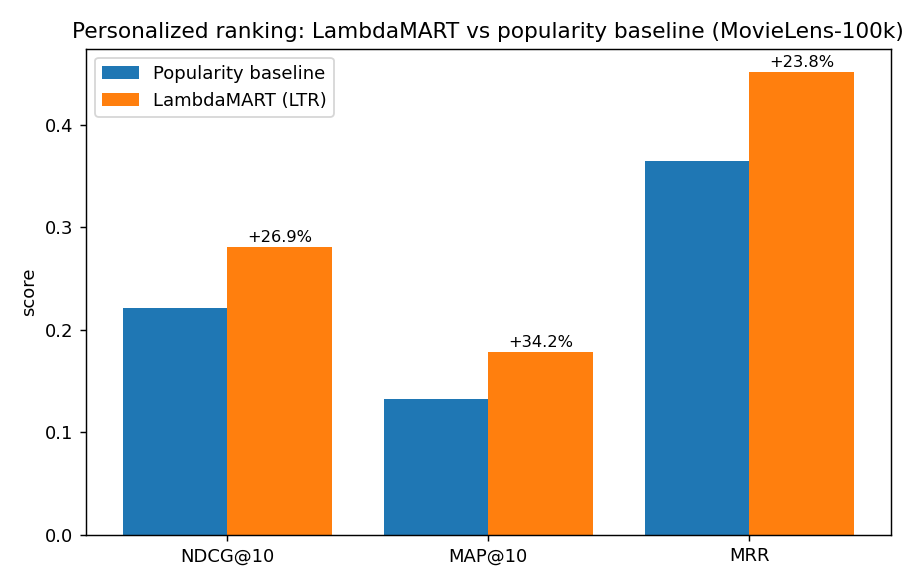
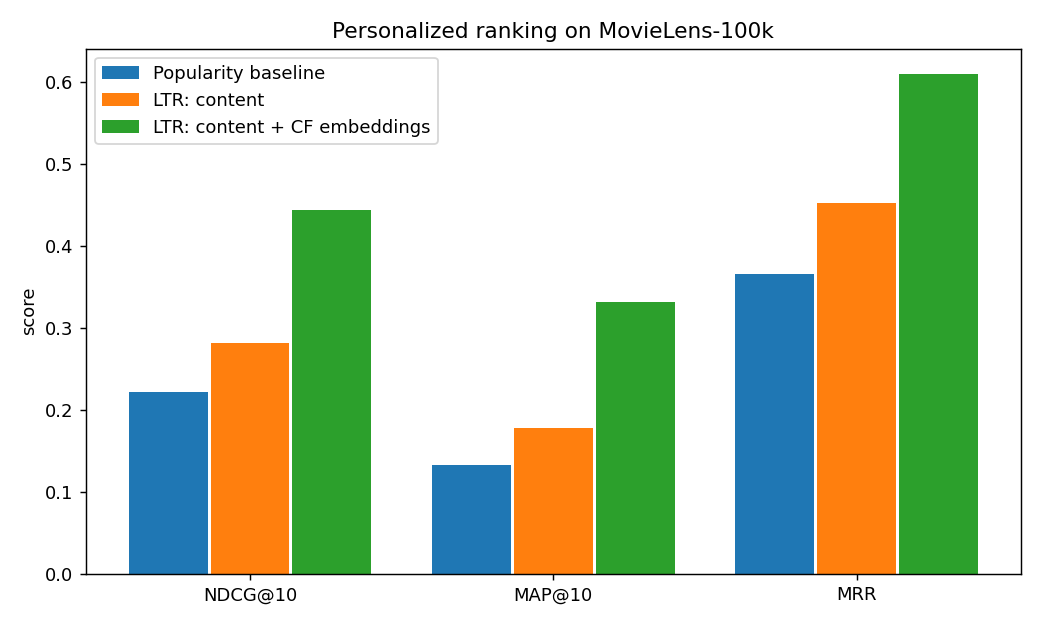
v2: add collaborative-filtering embeddings (matrix factorization) as ranking feature — nearly 2x NDCG over content-only

diff --git a/src/pipeline.py b/src/pipeline.py
@@ -33,7 +33,13 @@ import pandas as pd
 import matplotlib
 matplotlib.use("Agg")
 import matplotlib.pyplot as plt
+from scipy.sparse import csr_matrix
+from scipy.sparse.linalg import svds
 from xgboost import XGBRanker
+
+MF_DIM = 20   # latent dimensions for the collaborative-filtering embeddings
+CONTENT_FEATS = ["item_pop_log", "item_mean", "user_activity", "user_mean", "genre_match"]
+FULL_FEATS = CONTENT_FEATS + ["mf_score"]   # content + collaborative-filtering
 
 ROOT = Path(__file__).resolve().parents[1]
 DATA = ROOT / "data" / "ml-100k"
@@ -72,6 +78,30 @@ def temporal_split(ratings, test_frac=0.2, min_inter=10):
 
 
 # ------------------------- feature engineering ------------------------------
+def compute_mf(train, k=MF_DIM):
+    """Matrix factorization on the TRAIN positives -> user & item embeddings in
+    one shared latent space (collaborative filtering).
+
+    Build the sparse user x item matrix of positives (rating >= 4), factor it
+    with truncated SVD, and read off a k-dim vector for each user and each item.
+    The dot product of a user vector and an item vector is the 'collaborative
+    affinity' — learned purely from co-rating behavior, no genre labels.
+    """
+    pos = train[train["rating"] >= 4]
+    u_ids = sorted(pos["user"].unique())
+    i_ids = sorted(pos["item"].unique())
+    uidx = {u: i for i, u in enumerate(u_ids)}
+    iidx = {it: i for i, it in enumerate(i_ids)}
+    rows = pos["user"].map(uidx).to_numpy()
+    cols = pos["item"].map(iidx).to_numpy()
+    R = csr_matrix((np.ones(len(pos)), (rows, cols)), shape=(len(u_ids), len(i_ids)))
+    k = min(k, min(R.shape) - 1)
+    U, s, Vt = svds(R, k=k)           # R ~= U @ diag(s) @ Vt
+    return {"uidx": uidx, "iidx": iidx,
+            "user_emb": U * s,        # (n_users, k)
+            "item_emb": Vt.T}         # (n_items, k)
+
+
 def build_feature_tables(train, genres):
     """Everything here is derived from TRAIN ONLY (leakage guard)."""
     g_mean = train["rating"].mean()
@@ -93,6 +123,7 @@ def build_feature_tables(train, genres):
         "user_stats": user_stats,
         "user_genre": user_genre,
         "genres": genres,
+        "mf": compute_mf(train),       # collaborative-filtering embeddings
     }
 
 
@@ -111,8 +142,19 @@ def featurize(pairs, ft):
     ig = ft["genres"].reindex(df["item"].values).fillna(0.0).to_numpy()
     df["genre_match"] = (ug * ig).sum(axis=1)
 
-    feats = ["item_pop_log", "item_mean", "user_activity", "user_mean", "genre_match"]
-    return df[feats], feats
+    # collaborative-filtering affinity = dot(user_emb, item_emb); 0 for cold
+    # users/items with no learned embedding (that's when genre_match carries it).
+    mf = ft["mf"]
+    uix = df["user"].map(mf["uidx"])
+    iix = df["item"].map(mf["iidx"])
+    score = np.zeros(len(df))
+    mask = uix.notna().to_numpy() & iix.notna().to_numpy()
+    if mask.any():
+        u = uix[mask].astype(int).to_numpy()
+        i = iix[mask].astype(int).to_numpy()
+        score[mask] = (mf["user_emb"][u] * mf["item_emb"][i]).sum(axis=1)
+    df["mf_score"] = score
+    return df
 
 
 # ------------------------- candidate construction ---------------------------
@@ -223,23 +265,29 @@ def main():
 
     ft = build_feature_tables(train, genres)
     pop_w = popularity_weights(train, all_items)   # for hard-negative sampling
-
-    # ---- train LambdaMART ranker ----
     tr = build_training_frame(train, all_items, pop_w)
-    X, feat_names = featurize(tr[["user", "item"]], ft)
     groups = tr.groupby("user").size().to_numpy()
-    ranker = XGBRanker(objective="rank:ndcg", n_estimators=300, learning_rate=0.1,
-                       max_depth=6, subsample=0.8, colsample_bytree=0.8,
-                       random_state=42)
-    ranker.fit(X.to_numpy(), tr["rel"].to_numpy(), group=groups)
+    tr_feats = featurize(tr[["user", "item"]], ft)
 
-    # ---- evaluate (popularity-matched hard negatives) ----
+    def train_ranker(feature_cols):
+        r = XGBRanker(objective="rank:ndcg", n_estimators=300, learning_rate=0.1,
+                      max_depth=6, subsample=0.8, colsample_bytree=0.8,
+                      random_state=42)
+        r.fit(tr_feats[feature_cols].to_numpy(), tr["rel"].to_numpy(), group=groups)
+        return r
+
+    # v1 = content + popularity features; v2 = v1 + collaborative-filtering embedding
+    ranker_v1 = train_ranker(CONTENT_FEATS)
+    ranker_v2 = train_ranker(FULL_FEATS)
+
     eval_lists = build_eval_lists(test, train, all_items, pop_w)
     print(f"eval users with >=1 relevant test item: {len(eval_lists)}")
 
-    def model_score(user, items):
-        X, _ = featurize(pd.DataFrame({"user": user, "item": items}), ft)
-        return ranker.predict(X.to_numpy())
+    def make_scorer(ranker, cols):
+        def score(user, items):
+            X = featurize(pd.DataFrame({"user": user, "item": items}), ft)
+            return ranker.predict(X[cols].to_numpy())
+        return score
 
     pop = ft["item_stats"]["item_pop"]
 
@@ -247,29 +295,38 @@ def main():
         return pop.reindex(items).fillna(0.0).to_numpy()
 
     baseline = evaluate(eval_lists, pop_score)
-    model = evaluate(eval_lists, model_score)
+    v1 = evaluate(eval_lists, make_scorer(ranker_v1, CONTENT_FEATS))
+    v2 = evaluate(eval_lists, make_scorer(ranker_v2, FULL_FEATS))
 
-    lift = {m: round(100 * (model[m] - baseline[m]) / baseline[m], 1)
-            for m in baseline}
-    out = {"baseline_popularity": baseline, "lambdamart": model,
-           "lift_pct": lift, "feature_importance":
-           dict(sorted(zip(feat_names, ranker.feature_importances_.tolist()),
-                       key=lambda x: -x[1]))}
+    def lift(a, b):   # % improvement of b over a
+        return {m: round(100 * (b[m] - a[m]) / a[m], 1) for m in a}
+
+    out = {
+        "baseline_popularity": baseline,
+        "v1_ltr_content": v1,
+        "v2_ltr_content_plus_cf": v2,
+        "lift_v1_vs_baseline": lift(baseline, v1),
+        "lift_v2_vs_baseline": lift(baseline, v2),
+        "lift_v2_vs_v1": lift(v1, v2),
+        "v2_feature_importance": dict(sorted(
+            zip(FULL_FEATS, ranker_v2.feature_importances_.tolist()),
+            key=lambda x: -x[1])),
+    }
     (RESULTS / "metrics.json").write_text(json.dumps(out, indent=2))
     print(json.dumps(out, indent=2))
 
-    # ---- chart ----
+    # ---- chart: baseline vs v1 vs v2 ----
     metrics = list(baseline)
     x = np.arange(len(metrics))
-    plt.figure(figsize=(7, 4.5))
-    plt.bar(x - 0.2, [baseline[m] for m in metrics], 0.4, label="Popularity baseline")
-    plt.bar(x + 0.2, [model[m] for m in metrics], 0.4, label="LambdaMART (LTR)")
+    plt.figure(figsize=(8, 4.8))
+    for off, res, label in [(-0.27, baseline, "Popularity baseline"),
+                            (0.0, v1, "LTR: content"),
+                            (0.27, v2, "LTR: content + CF embeddings")]:
+        plt.bar(x + off, [res[m] for m in metrics], 0.26, label=label)
     plt.xticks(x, metrics)
     plt.ylabel("score")
-    plt.title("Personalized ranking: LambdaMART vs popularity baseline (MovieLens-100k)")
+    plt.title("Personalized ranking on MovieLens-100k")
     plt.legend()
-    for i, m in enumerate(metrics):
-        plt.text(i + 0.2, model[m] + 0.005, f"+{lift[m]}%", ha="center", fontsize=9)
     plt.tight_layout()
     plt.savefig(RESULTS / "ranking_comparison.png", dpi=130)
     print(f"\nWrote {RESULTS/'metrics.json'} and {RESULTS/'ranking_comparison.png'}")

diff --git a/README.md b/README.md
@@ -3,42 +3,61 @@
 A compact, reproducible **learning-to-rank** project: rank the items a user will
 engage with to the top of their list. This is the same problem shape as **product
 search / relevancy ranking on a marketplace** — I built the production version of
-this class of system at work; this is a clean public-data demonstration of the
-approach.
+this class of system at work; this is a clean public-data demonstration.
 
 **Data:** [MovieLens-100k](https://grouplens.org/datasets/movielens/100k/)
 (943 users, 1,682 items, 100k interactions).
-**Model:** XGBoost `XGBRanker` (LambdaMART, `rank:ndcg`) vs a popularity baseline.
+**Model:** XGBoost `XGBRanker` (LambdaMART, `rank:ndcg`).
+**Built in two versions** to show the impact of collaborative filtering.
 
 ## Results
 
-Evaluated with **popularity-matched hard negatives** (see the note below on why
-this matters), averaged over 906 users:
+Evaluated with **popularity-matched hard negatives** (see note below), averaged
+over 906 users:
 
-| Metric   | Popularity baseline | LambdaMART (LTR) | Lift |
-|----------|--------------------:|-----------------:|-----:|
-| NDCG@10  | 0.221 | **0.281** | **+26.9%** |
-| MAP@10   | 0.133 | **0.178** | **+34.2%** |
-| MRR      | 0.365 | **0.452** | **+23.8%** |
+| Metric   | Popularity baseline | v1: content features | v2: **+ CF embeddings** |
+|----------|--------------------:|---------------------:|------------------------:|
+| NDCG@10  | 0.221 | 0.281 (+27%) | **0.443 (+100%)** |
+| MAP@10   | 0.133 | 0.178 (+34%) | **0.331 (+150%)** |
+| MRR      | 0.365 | 0.452 (+24%) | **0.610 (+67%)** |
+
+*(% vs the popularity baseline. v2 improves on v1 by +58% NDCG / +86% MAP.)*
 
 ![comparison](results/ranking_comparison.png)
 
-## The interesting part: I found the bug in my own evaluation
+## v2: adding collaborative-filtering embeddings
+
+v1 uses **content features** — item popularity, average ratings, and `genre_match`
+(overlap of the user's genre taste with the item's genres). Genres only capture
+taste along **human-labeled** dimensions.
+
+v2 adds a **collaborative-filtering** feature. I factorize the train user×item
+matrix (truncated SVD) into **user and item embeddings in one shared latent
+space** — 20-dim vectors learned purely from co-rating behavior, no labels. The
+dot product of a user vector and an item vector (`mf_score`) is their learned
+affinity: *"users who behaved like you also engaged with this."* It captures
+structure genres can't — e.g. it separates two same-genre items whose fan bases
+differ.
+
+Adding that one feature nearly **doubled** ranking quality, and `mf_score` became
+the **most important feature (0.64 importance)** — the behavioral/latent signal
+outweighs the hand-labeled content features. `genre_match` is kept because CF is
+blind to **cold-start** users/items with no interaction history; there, content
+features carry the ranking.
+
+## The other interesting part: I found the bug in my own evaluation
 
 My **first** version sampled test negatives *uniformly at random* — and the LTR
 model **lost** to the popularity baseline (NDCG −0.7%).
 
 That's a classic recommender-systems trap: random negatives are mostly unpopular,
 so **popularity alone separates them from positives almost perfectly** — an
-artificially strong, un-beatable baseline. It tells you nothing about
-personalization.
+artificially strong baseline that says nothing about personalization.
 
 The fix is **popularity-matched ("hard") negatives** — sample negatives in
-proportion to item popularity, so the candidates are *popular items this user
-didn't engage with*. Now popularity can't cheat, and the model's personalization
-signals have to do the work. After the fix, LambdaMART beats popularity by ~27%
-NDCG, and the importance of the personalization feature (genre affinity) **doubled**
-(0.12 → 0.26). Same model — the change was making the evaluation honest.
+proportion to item popularity, so candidates are *popular items this user didn't
+engage with*. Now popularity can't cheat and the model's personalization has to do
+the work. Same models, honest evaluation.
 
 ## What's modeled
 
@@ -47,12 +66,11 @@ NDCG, and the importance of the personalization feature (genre affinity) **doubl
   a "positive" is rating ≥ 4.
 - **Temporal split, per user:** each user's most recent 20% of interactions → test.
   No future interaction leaks into training.
-- **Leakage guard:** every feature (item popularity, item/user mean rating, genre
-  affinity) is computed from the **train split only**; cold items/users fall back
-  to global means.
+- **Leakage guard:** every feature — content stats *and* the CF embeddings — is
+  computed from the **train split only**; cold items/users fall back to global
+  means / zero CF affinity.
 - **Features:** `item_pop_log`, `item_mean`, `user_activity`, `user_mean`,
-  `genre_match` (dot product of the user's genre-preference vector with the item's
-  genre vector).
+  `genre_match` (content) + `mf_score` (collaborative filtering).
 - **Metrics:** NDCG@10, MAP@10, MRR.
 
 ## Run it
@@ -60,20 +78,19 @@ NDCG, and the importance of the personalization feature (genre affinity) **doubl
 ```bash
 pip install -r requirements.txt
 python src/download.py     # fetches MovieLens-100k (~5 MB) into data/
-python src/pipeline.py     # trains, evaluates, writes results/
+python src/pipeline.py     # trains v1 + v2, evaluates, writes results/
 ```
 Fully reproducible (fixed seed). Runs in well under a minute on a laptop, CPU-only.
 
 ## What I'd do next
-- Add collaborative-filtering embeddings (matrix factorization / implicit ALS) as
-  ranking features — pure content + popularity features leave signal on the table.
-- Compare listwise vs pairwise objectives and tune with proper per-user CV.
-- Serve top-N with a candidate-generation → ranking two-stage design (how this
-  scales in production).
+- Tune the CF rank/regularization and try implicit-feedback ALS (confidence-weighted).
+- Two-stage serving: candidate generation (retrieve a few hundred from millions)
+  → ranking (score just those) — how this scales in production.
+- Cold-start: content/embedding hybrids for brand-new users and items.
 
 ## Layout
 ```
 src/download.py   # fetch dataset
-src/pipeline.py   # features (leakage-safe) → train → evaluate → chart
+src/pipeline.py   # features (leakage-safe) + CF embeddings → train v1/v2 → evaluate → chart
 results/          # metrics.json + ranking_comparison.png
 ```